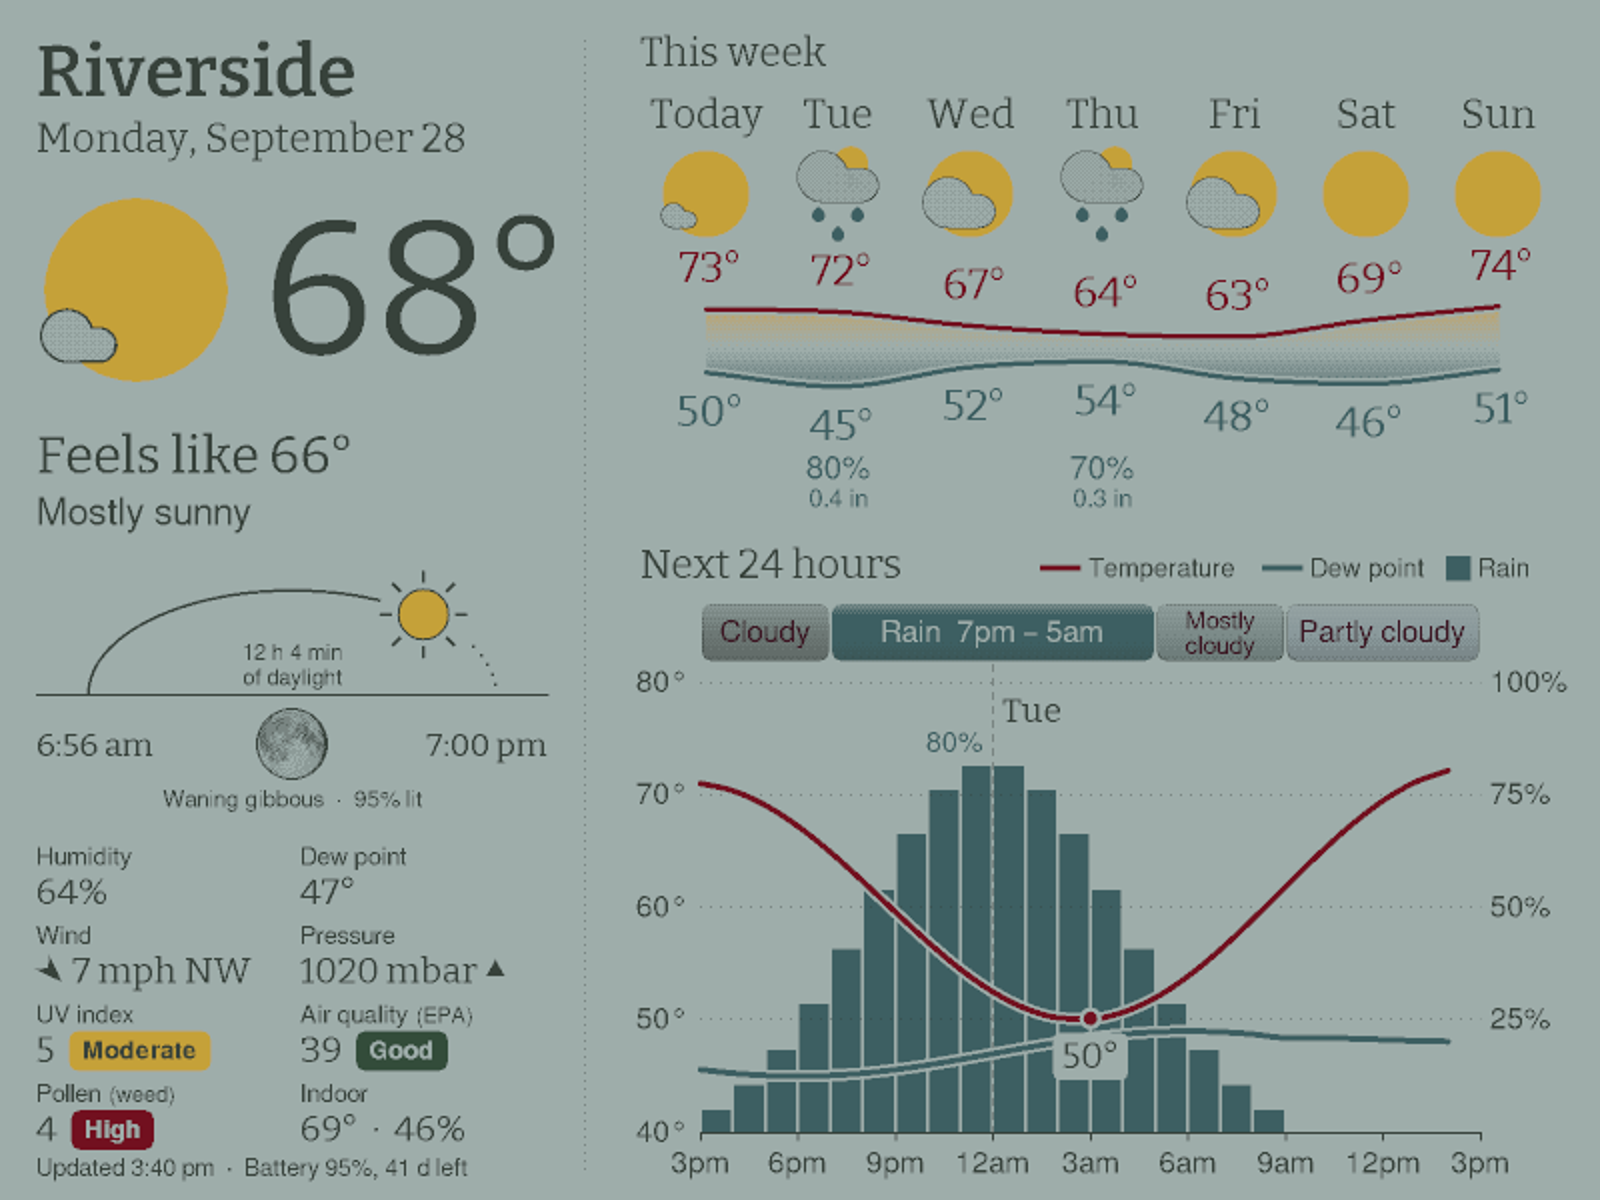
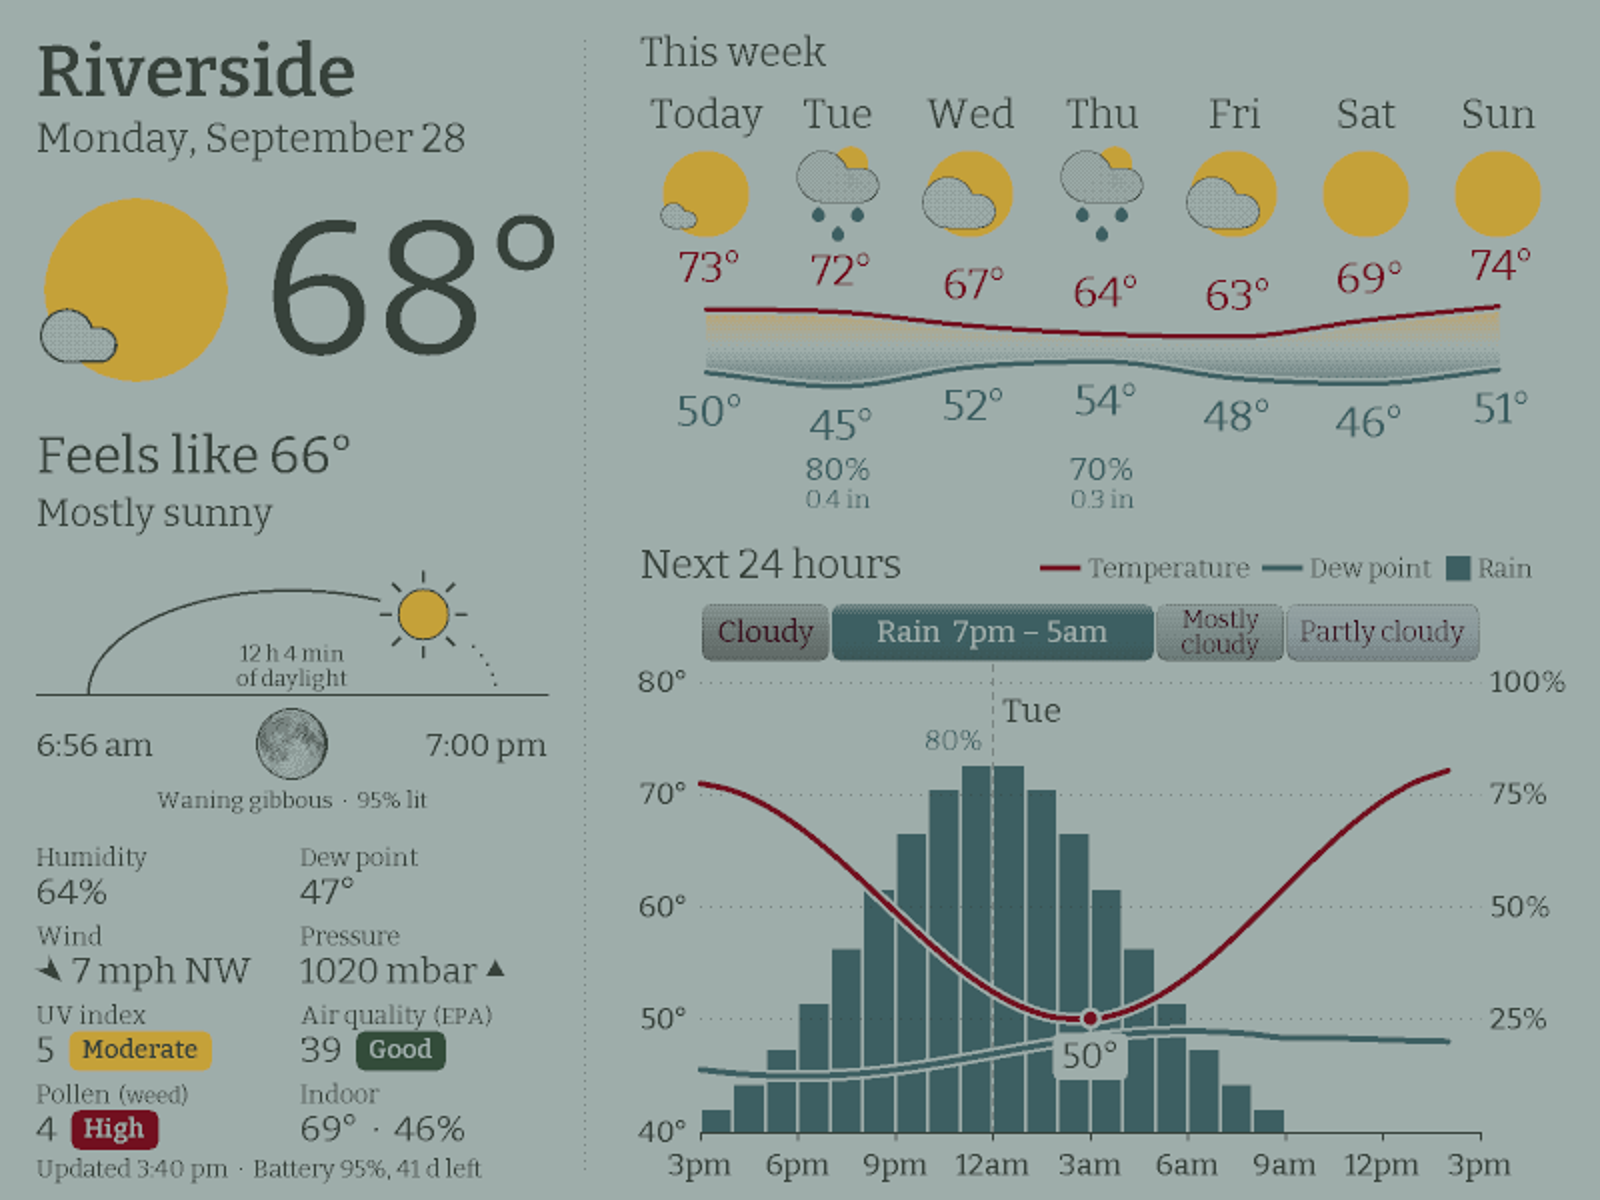
1600x1200 layout: Bitter for all text; the storm chip's gradient in its fill
Bitter, tried on the panel, is now the layout's face for the small text too (Bitter semibold on the chips); -D EPD709_SMALL_FREESANS brings FreeSans back. The storm chip's gradient was dots laid over a screen already two-thirds black and did not show on the panel; its fill now carries the gradient itself, shaped as the white-word chips' are: lighter in a band at the top, darker near the bottom, an even 70 % behind the words.

diff --git a/platformio/src/renderer709.cpp b/platformio/src/renderer709.cpp
@@ -50,11 +50,12 @@
 
 #include "assets709/fonts709.h"
 
-// EPD709_ALL_BITTER: all text in Bitter -- the small sizes the layout sets
-// in FreeSans drawn in Bitter at the same pixel size, the chips' bold words
-// in Bitter semibold. At 282 ppi Bitter's serifs hold at 22 px (on the
-// 800x480 panels' ~125 ppi they do not, hence FreeSans there).
-#if defined(EPD709_ALL_BITTER)
+// All text in Bitter (chosen on the panel, 2026-10-16): the small sizes
+// once set in FreeSans are drawn in Bitter at the same pixel size, the
+// chips' bold words in Bitter semibold. At 282 ppi Bitter's serifs hold at
+// 22 px (on the 800x480 panels' ~125 ppi they do not, hence FreeSans
+// there). -D EPD709_SMALL_FREESANS brings FreeSans back for small text.
+#if !defined(EPD709_SMALL_FREESANS)
 #define F_SANS_22  F_BITTER_22
 #define F_SANS_23  F_BITTER_23
 #define F_SANS_24  F_BITTER_24
@@ -2566,7 +2567,27 @@ static void drawRibbon(int x0, int x1, int y, const Spell *spells, int count,
       {
       case 1: fillTone(xa, y, xb, y + h, 8, {K, 0.33f, W, 1}); break;
       case 2: fillBox(xa, y, xb, y + h, 8, B); break;
-      case 3: fillTone(xa, y, xb, y + h, 8, {K, 0.65f, W, 1}); break;
+      case 3:
+        // the gradient in the fill itself: dots laid over a screen this
+        // dark barely showed on the panel (2026-10-16). Shaped as the white-
+        // word chips' is: lighter in a band at the top (45 %), darker near
+        // the bottom (to 88 %), an even 70 % where the words are
+        for (int yy = y; yy <= y + h; ++yy)
+        {
+          const float t = (yy - y) / static_cast<float>(h);
+          float share = 0.70f;
+          if (g_chip3d == 3 && t < 0.2f)   {share = 0.45f + 0.25f * t / 0.2f;}
+          if (g_chip3d == 3 && t > 0.65f)  {share = 0.70f + 0.18f * (t - 0.65f) / 0.35f;}
+          const Tone row = {K, share, W, 1};
+          for (int xx = xa; xx <= xb; ++xx)
+          {
+            if (inRound(xx, yy, xa, y, xb, y + h, 8))
+            {
+              px(xx, yy, toneAt(row, xx, yy));
+            }
+          }
+        }
+        break;
       case 4: fillBox(xa, y, xb, y + h, 8, Y); break;
       case 5: fillBox(xa, y, xb, y + h, 8, W);
               display.setStipple(true);
@@ -2622,7 +2643,8 @@ static void drawRibbon(int x0, int x1, int y, const Spell *spells, int count,
     {
       strokeBox(xa, y, xb, y + h, 8, look.edgeWidth, look.edge);
     }
-    if (g_chip3d == 1 || g_chip3d >= 3)
+    const bool ownGradient = s.kind == K_TSTORM && g_stormStyle == 3 && g_chip3d == 3;
+    if ((g_chip3d == 1 || g_chip3d >= 3) && !ownGradient)
     {
       const bool lightWords = look.text == W_ABS
                               || (s.kind == K_TSTORM && (g_stormStyle == 2 || g_stormStyle == 3))

diff --git a/tools/gen_assets709.py b/tools/gen_assets709.py
@@ -62,8 +62,9 @@ FACES = [("BITTER_190D", "bitter", 190, DIGITS, False),
 FACES += [("BITTER_%d" % s, "bitter", s, None, s <= 40) for s in (52, 40, 36, 34, 32, 30, 27, 24, 22)]
 FACES += [("SANS_%d" % s, "sans", s, None, False) for s in (38, 32, 30, 28, 27, 26, 25, 24, 23, 22)]
 FACES += [("SANSB_25", "sansb", 25, None, False)]
-# Bitter at the sans sizes too, so the small text can be set in Bitter
-# (EPD709_ALL_BITTER), and Bitter semibold for the chips' words
+# Bitter at the sans sizes too, for the small text (the layout's default;
+# EPD709_SMALL_FREESANS uses the sans faces above), and Bitter semibold
+# for the chips' words
 FACES += [("BITTER_%d" % s, "bitter", s, None, True) for s in (38, 28, 26, 25, 23)]
 FACES += [("BITTERSB_25", "bittersb", 25, None, True)]
 
